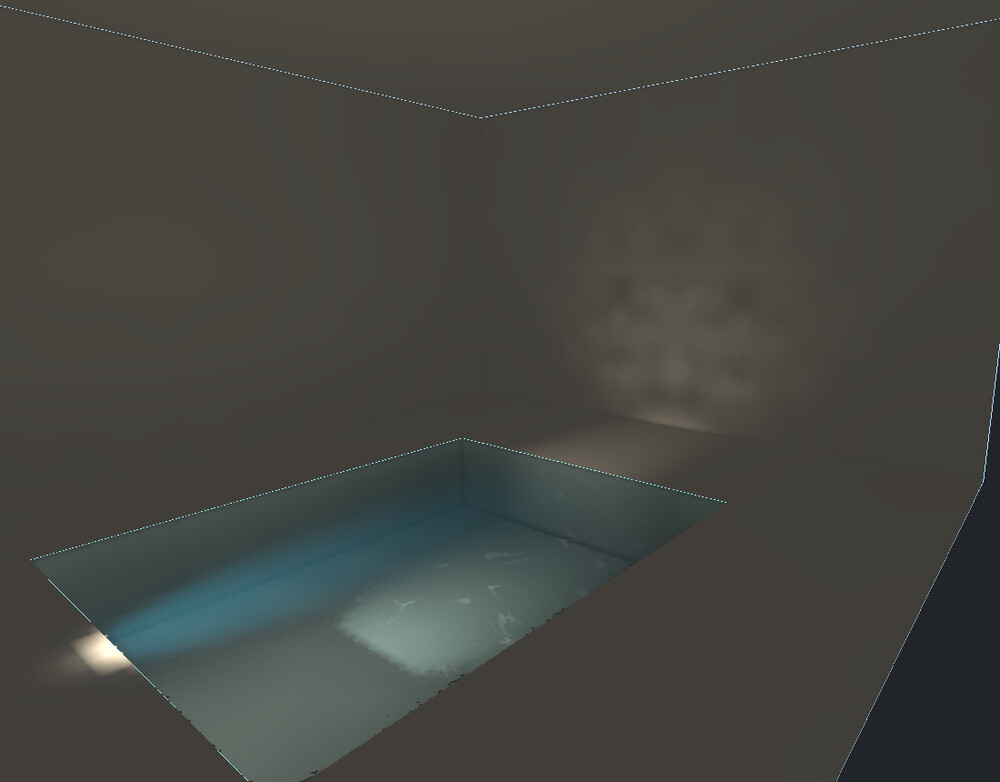
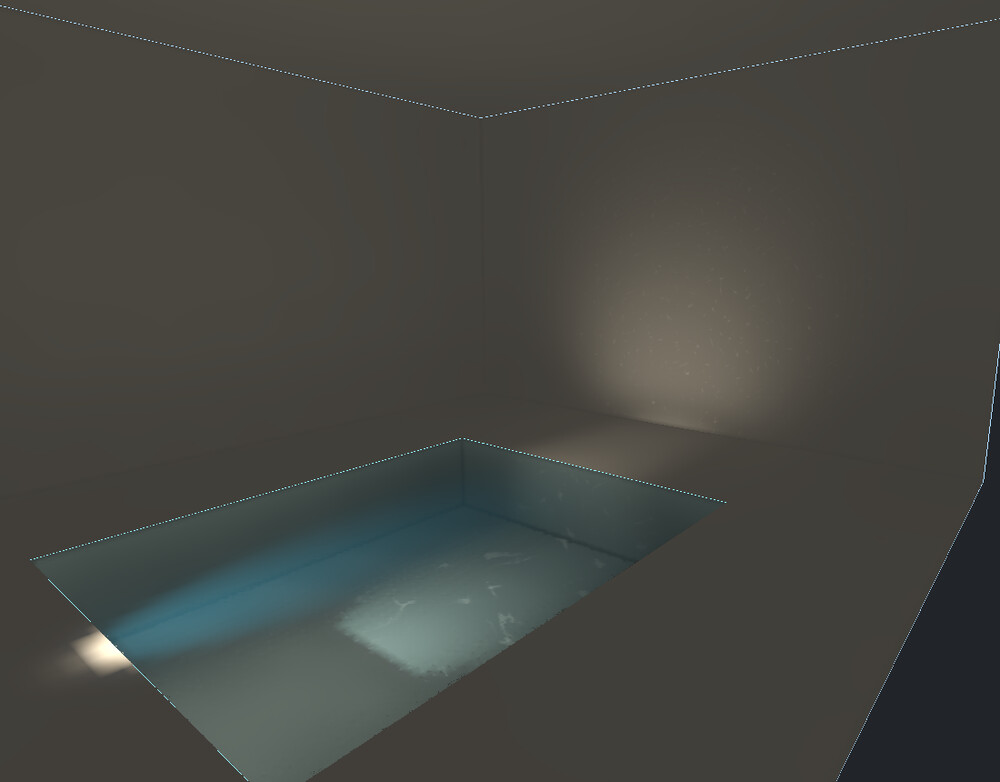
The lightmapper draft's water picture is rebaked with a smooth reflection, and the post no longer narrates the fixes found while writing it

Changed region(s): [[0.589, 0.3683, 0.775, 0.5217]]

diff --git a/blog/lightmapper/index.html b/blog/lightmapper/index.html
@@ -310,13 +310,7 @@
 		the same brightness. Light that came through tinted glass or water is counted as coloured too. It is
 		exact when every slot of a texel bounced in the same colour, which is nearly always the case, since
 		they bounced off the same walls.</p>
-		<p>Making this post, I found three things that kept the colour from showing. The shader blended the
-		whole surface, lamp light and all, towards the bleed colour at a fixed strength, so the coloured walls
-		turned grey at any higher setting. The bounce passes sent the full gathered chroma again on every
-		bounce, without the wall's colour. And detail brushwork had no probes of its own, so the side of a
-		block facing a red wall was lit from the probes on the walls around it, which face other ways and
-		never see the red wall's light. All three are fixed now. Here is the same box with the colour bleed
-		of its switchable lamp off and on:</p>
+		<p>Here is the same box with the colour bleed of its switchable lamp off and on:</p>
 
 		<figure>
 			<div class="compare" style="--split: 50%">
